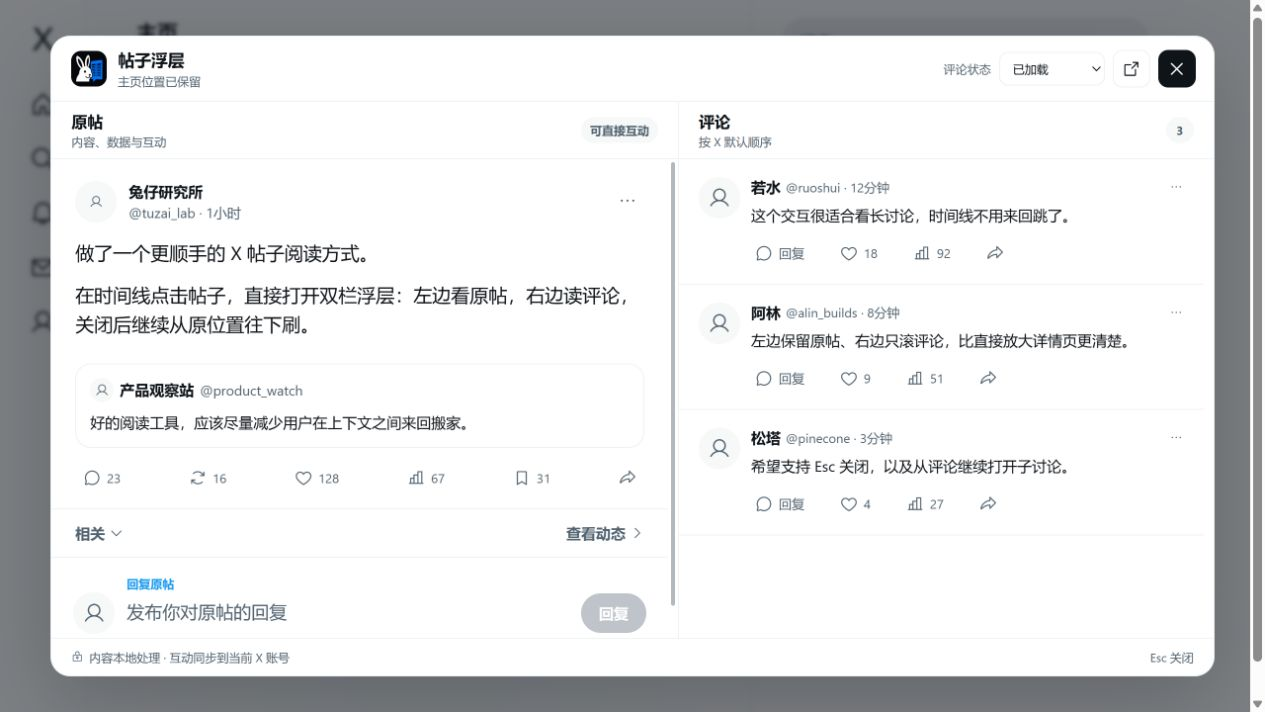
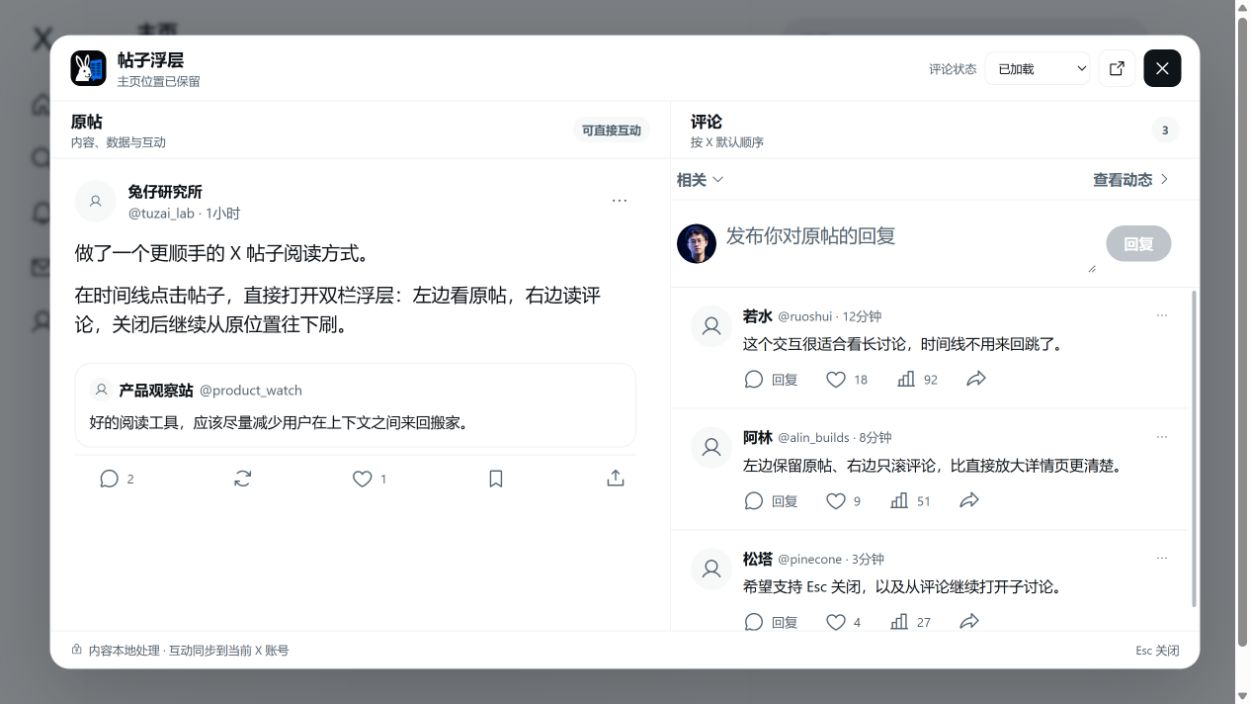
fix: match X action bar and right-side reply tools

diff --git a/src/App.jsx b/src/App.jsx
@@ -66,12 +66,11 @@ function MockPost({ metrics, onAction }) {
         <p>好的阅读工具，应该尽量减少用户在上下文之间来回搬家。</p>
       </div>
       <div className="demo-metrics">
-        <Action icon="ph-chat-circle" label="回复" onClick={() => onAction("reply")}>23</Action>
-        <Action icon="ph-arrows-clockwise" label="转发" active={metrics.reposted} onClick={() => onAction("retweet")}>{16 + Number(metrics.reposted)}</Action>
-        <Action icon="ph-heart" label="喜欢" active={metrics.liked} onClick={() => onAction("like")}>{128 + Number(metrics.liked)}</Action>
-        <Action icon="ph-chart-bar" label="查看帖子分析" onClick={() => onAction("analytics")}>67</Action>
-        <Action icon="ph-bookmark-simple" label="加入书签" active={metrics.bookmarked} onClick={() => onAction("bookmark")}>{31 + Number(metrics.bookmarked)}</Action>
-        <Action icon="ph-share-fat" label="分享帖子" onClick={() => onAction("share")} />
+        <Action icon="ph-chat-circle" label="回复" onClick={() => onAction("reply")}>2</Action>
+        <Action icon="ph-arrows-clockwise" label="转发" active={metrics.reposted} onClick={() => onAction("retweet")}>{metrics.reposted ? 1 : null}</Action>
+        <Action icon="ph-heart" label="喜欢" active={metrics.liked} onClick={() => onAction("like")}>{1 + Number(metrics.liked)}</Action>
+        <Action icon="ph-bookmark-simple" label="加入书签" active={metrics.bookmarked} onClick={() => onAction("bookmark")} />
+        <Action icon="ph-upload-simple" label="分享帖子" onClick={() => onAction("share")} />
       </div>
     </article>
   );
@@ -225,16 +224,18 @@ export function App() {
                 <header className="tuzai-pane-header"><div><strong>原帖</strong><span>内容、数据与互动</span></div><span className="tuzai-interactive-pill">可直接互动</span></header>
                 <div className="tuzai-scroll-area tuzai-post-body">
                   <MockPost metrics={metrics} onAction={handlePostAction} />
-                  <div className="tuzai-context-row"><span>相关 <i className="ph ph-caret-down" /></span><a href="https://x.com/tuzai_lab/status/2087155564904370681/quotes" target="_blank" rel="noreferrer">查看动态 <i className="ph ph-caret-right" /></a></div>
-                  <section className="tuzai-composer" data-target-url="https://x.com/tuzai_lab/status/2087155564904370681">
-                    <Avatar />
-                    <div className="tuzai-composer-body"><span className="tuzai-composer-target">回复{replyTarget}</span><textarea rows="2" maxLength="280" value={replyText} onChange={(event) => setReplyText(event.target.value)} placeholder={`发布你对${replyTarget}的回复`} aria-label="发布你的回复" /></div>
-                    <button type="button" disabled={!replyText.trim()} onClick={publishReply}>回复</button>
-                  </section>
                 </div>
               </section>
               <section className="tuzai-pane tuzai-replies-pane">
                 <header className="tuzai-pane-header"><div><strong>评论</strong><span>{state === 'ready' ? '按 X 默认顺序' : '读取当前会话可见内容'}</span></div><span className="tuzai-reply-count">{state === 'ready' ? replyItems.length : '—'}</span></header>
+                <div className="tuzai-reply-tools">
+                  <div className="tuzai-context-row"><span>相关 <i className="ph ph-caret-down" /></span><a href="https://x.com/tuzai_lab/status/2087155564904370681/quotes" target="_blank" rel="noreferrer">查看动态 <i className="ph ph-caret-right" /></a></div>
+                  <section className="tuzai-composer" data-target-url="https://x.com/tuzai_lab/status/2087155564904370681">
+                    <img className="tuzai-composer-avatar" src="/assets/tino-avatar.png" alt="" />
+                    <div className="tuzai-composer-body"><span className="tuzai-composer-target">回复{replyTarget}</span><textarea rows="2" maxLength="280" value={replyText} onChange={(event) => setReplyText(event.target.value)} placeholder={`发布你对${replyTarget}的回复`} aria-label="发布你的回复" /></div>
+                    <button type="button" disabled={!replyText.trim()} onClick={publishReply}>回复</button>
+                  </section>
+                </div>
                 <div className="tuzai-scroll-area tuzai-reply-list">
                   {state === "ready" && replyItems.map((reply) => <Reply reply={reply} onAction={handleReplyAction} key={`${reply.handle}-${reply.time}`} />)}
                   {state === "loading" && <div className="tuzai-state"><span className="tuzai-spinner" /><strong>正在读取评论</strong><p>原帖已经可以阅读，评论加载完成后会自动出现。</p></div>}

diff --git a/extension/content.css b/extension/content.css
@@ -37,6 +37,7 @@
 .tuzai-reader-grid { min-height: 0; display: grid; grid-template-columns: minmax(0, 1.08fr) minmax(390px, .92fr); }
 .tuzai-pane { min-width: 0; min-height: 0; display: grid; grid-template-rows: 58px minmax(0, 1fr); }
 .tuzai-post-pane { border-right: 1px solid var(--tuzai-border); }
+.tuzai-replies-pane { grid-template-rows: 58px auto minmax(0, 1fr); }
 .tuzai-pane-header { display: flex; align-items: center; justify-content: space-between; gap: 12px; padding: 0 20px; border-bottom: 1px solid var(--tuzai-border); background: color-mix(in srgb, var(--tuzai-bg) 95%, var(--tuzai-soft)); }
 .tuzai-pane-header > div { display: grid; gap: 2px; }
 .tuzai-pane-header strong { font-size: 16px; }
@@ -50,17 +51,19 @@
 .tuzai-cloned-article button[data-tuzai-action] { cursor: pointer !important; }
 .tuzai-cloned-article button[data-tuzai-action][aria-busy="true"] { opacity: .46; pointer-events: none; }
 .tuzai-reply-list > .tuzai-cloned-article { width: 100%; border-bottom: 1px solid var(--tuzai-border) !important; }
-.tuzai-context-row { display: flex; align-items: center; justify-content: space-between; min-height: 50px; padding: 0 24px; border-top: 1px solid var(--tuzai-border); border-bottom: 1px solid var(--tuzai-border); color: var(--tuzai-muted); font-weight: 650; }
+.tuzai-context-row { display: flex; align-items: center; justify-content: space-between; min-height: 42px; padding: 0 28px 0 6px; border-top: 1px solid var(--tuzai-border); border-bottom: 1px solid var(--tuzai-border); color: var(--tuzai-muted); font-weight: 650; }
 .tuzai-context-row > span, .tuzai-context-row > a { display: inline-flex; align-items: center; gap: 4px; color: inherit; text-decoration: none; }
 .tuzai-context-row > a:hover { text-decoration: underline; }
-.tuzai-composer { display: grid; grid-template-columns: auto minmax(0, 1fr) auto; align-items: center; gap: 12px; padding: 18px 22px; border-bottom: 1px solid var(--tuzai-border); background: var(--tuzai-bg); }
-.tuzai-composer-avatar { width: 42px; height: 42px; display: grid; place-items: center; border-radius: 50%; object-fit: cover; background: var(--tuzai-soft); color: var(--tuzai-muted); font-size: 22px; }
-.tuzai-composer-body { min-width: 0; display: grid; gap: 5px; }
-.tuzai-composer-target { color: var(--tuzai-accent); font-size: 12px; font-weight: 650; }
-.tuzai-composer textarea { width: 100%; min-height: 48px; max-height: 124px; resize: vertical; border: 0; outline: 0; padding: 2px 0; background: transparent; color: var(--tuzai-fg); font: inherit; font-size: 18px; line-height: 1.4; }
+.tuzai-composer { display: grid; grid-template-columns: auto minmax(0, 1fr) auto; align-items: center; gap: 10px; padding: 14px 28px 14px 6px; border-bottom: 1px solid var(--tuzai-border); background: var(--tuzai-bg); }
+.tuzai-composer-avatar { width: 40px; height: 40px; display: grid; place-items: center; border-radius: 50%; object-fit: cover; background: var(--tuzai-soft); color: var(--tuzai-muted); font-size: 21px; }
+.tuzai-composer-body { min-width: 0; display: grid; }
+.tuzai-composer-target { position: absolute; width: 1px; height: 1px; overflow: hidden; clip: rect(0 0 0 0); white-space: nowrap; }
+.tuzai-composer textarea { width: 100%; min-height: 44px; max-height: 112px; resize: vertical; border: 0; outline: 0; padding: 8px 0 0; background: transparent; color: var(--tuzai-fg); font: inherit; font-size: 19px; line-height: 1.35; }
 .tuzai-composer textarea::placeholder { color: var(--tuzai-muted); }
-.tuzai-composer > button { border: 0; border-radius: 999px; padding: 10px 18px; background: var(--tuzai-accent); color: #fff; font-weight: 750; cursor: pointer; }
+.tuzai-composer > button { border: 0; border-radius: 999px; padding: 8px 18px; background: var(--tuzai-accent); color: #fff; font-weight: 750; cursor: pointer; }
 .tuzai-composer > button:disabled { background: color-mix(in srgb, var(--tuzai-muted) 38%, var(--tuzai-bg)); cursor: default; }
+.tuzai-reply-tools { min-width: 0; background: var(--tuzai-bg); }
+.tuzai-reply-tools .tuzai-context-row { border-top: 0; }
 .tuzai-action-menu { position: fixed; z-index: 2147483647; width: 204px; overflow: hidden; border: 1px solid var(--tuzai-border); border-radius: 14px; background: var(--tuzai-bg); box-shadow: 0 12px 36px rgba(15,20,25,.22); }
 .tuzai-action-menu button { width: 100%; display: flex; align-items: center; gap: 10px; border: 0; padding: 12px 14px; background: transparent; color: var(--tuzai-fg); text-align: left; font-weight: 650; cursor: pointer; }
 .tuzai-action-menu button:hover { background: var(--tuzai-soft); }

diff --git a/src/styles.css b/src/styles.css
@@ -52,9 +52,9 @@ button { color: inherit; }
 .demo-quote-title { display: flex; gap: 6px; align-items: center; }
 .demo-quote-title .demo-avatar { width: 24px; height: 24px; font-size: 14px; }
 .demo-quote-card p { margin: 10px 0 0; line-height: 1.45; }
-.demo-metrics { display: flex; justify-content: space-between; padding: 17px 4px 0; color: var(--tuzai-muted); }
-.demo-action { display: inline-flex; gap: 6px; align-items: center; border: 0; padding: 4px; background: transparent; color: inherit; font-size: 13px; cursor: pointer; }
-.demo-action i { font-size: 18px; }
+.demo-metrics { min-height: 48px; display: flex; align-items: center; justify-content: space-between; margin-top: 7px; padding: 0 10px 0 24px; border-top: 1px solid var(--tuzai-border); color: var(--tuzai-muted); }
+.demo-action { display: inline-flex; gap: 7px; align-items: center; border: 0; padding: 0; background: transparent; color: inherit; font-size: 13px; line-height: 1; cursor: pointer; }
+.demo-action i { font-size: 22px; }
 .demo-action:hover { color: var(--tuzai-accent); }
 .demo-action[data-active="true"] { color: var(--tuzai-accent); }
 .demo-reply-card { display: flex; gap: 11px; padding: 18px 20px; border-bottom: 1px solid var(--tuzai-border); }

diff --git a/extension/content.js b/extension/content.js
@@ -410,6 +410,7 @@
         </section>
         <section class="tuzai-pane tuzai-replies-pane">
           <header class="tuzai-pane-header"><div><strong>评论</strong><span>按 X 当前默认顺序</span></div><span class="tuzai-reply-count">—</span></header>
+          <div class="tuzai-reply-tools"></div>
           <div class="tuzai-scroll-area tuzai-reply-list"></div>
         </section>
       </div>
@@ -434,7 +435,8 @@
     activity.rel = "noopener";
     activity.append(document.createTextNode("查看动态"), icon("ph-caret-right"));
     contextRow.append(related, activity);
-    postBody.append(clone, contextRow, createReplyComposer());
+    postBody.append(clone);
+    dialog.querySelector(".tuzai-reply-tools").append(contextRow, createReplyComposer());
     postBody.addEventListener("click", handleClonedContentClick, true);
     dialog.querySelector(".tuzai-reply-list").addEventListener("click", handleClonedContentClick, true);
 

diff --git a/design-qa.md b/design-qa.md
@@ -1,56 +1,50 @@
 # Design QA
 
-- Source visual truth: `C:/Users/yi/AppData/Local/Temp/codex-clipboard-b7a3db9e-6771-4ec8-b378-1968a2eb9e23.png`
-- Implementation screenshot: `D:/GitHub/tuzai-x-popover/docs/preview.png`
-- State: light theme, popover open, replies loaded, native-equivalent action row and reply composer visible
-- Source pixels: 1256 × 842 at unknown CSS density
-- Implementation pixels / observed CSS viewport: 1265 × 712 at the in-app browser's default desktop density
-- Density normalization: both captures were inspected together at their native near-equal widths. The supplied source is already a focused crop of the X action/composer area, so an additional crop was not needed.
+- Source visual truth 1: `C:/Users/yi/AppData/Local/Temp/codex-clipboard-e9d5980e-e913-4636-a2c6-bbf40760d530.png`
+- Source visual truth 2: `C:/Users/yi/AppData/Local/Temp/codex-clipboard-7d869374-3ae4-4c08-bbe7-ebef608974b8.png`
+- Full implementation screenshot: `D:/GitHub/tuzai-x-popover/docs/preview.png`
+- Focused action comparison: `D:/GitHub/tuzai-x-popover/docs/qa-action-bar-normalized-verified.png`
+- Focused right-tools comparison: `D:/GitHub/tuzai-x-popover/docs/qa-right-reply-tools-normalized-verified.png`
+- State: light theme, desktop two-column popover open, replies loaded
+- Source pixels: 1182 × 94 and 1196 × 266
+- Implementation viewport: 1265 × 712
 
 ## Findings
 
-No actionable P0/P1/P2 visual or interaction mismatch remains for the requested feature set.
+No actionable P0/P1/P2 mismatch remains for the two requested regions.
 
-The source establishes the required interaction anatomy: reply, repost, like, view/analytics, bookmark, share, related ordering, quote activity, reply composer, and per-reply action rows. The implementation visibly preserves those surfaces while adapting them to the intentional two-column reader.
+The original-post action bar now has exactly five controls in the source order: reply, repost, like, bookmark, share. The proportional icon positions match the reference, only reply and like show their initial counts, and the share control uses the same upward-arrow anatomy.
 
-## Full-view comparison evidence
-
-- The left pane keeps the original post and X-like action hierarchy, then shows `相关`, `查看动态`, and the reply composer in the same order as the source.
-- The right pane keeps per-reply reply, like, view/analytics, and share controls instead of reducing replies to plain text.
-- The two-column split is an intentional product change required by the original brief, not a fidelity regression. Independent scrolling preserves the source's dense conversation-reading behavior.
+`相关`, `查看动态`, and the reply composer now live at the top of the right comment pane. The source avatar crop is used, the helper target label is visually hidden, and the disabled reply button, left/right insets, row heights, separators, and muted colors follow the supplied crop.
 
 ## Focused comparison evidence
 
-The source image itself is a focused 1256 px-wide crop of the interaction region. At the implementation's comparable 1265 px width, all corresponding controls and labels remain legible. The action row, `相关` / `查看动态` row, disabled-empty reply button, and reply cards were directly readable in the combined image inspection, so no additional crop was necessary.
-
-## Required fidelity surfaces
-
-- Fonts and typography: system UI fonts, X-like muted metadata, strong author names, and compact action counts preserve the source hierarchy. No wrapping or truncation failure was observed.
-- Spacing and layout rhythm: the action row, context row, composer, and comment separators align consistently. The left pane uses slightly denser spacing than the source so the controls fit beside the comment pane; this is acceptable for the split-reader layout.
-- Colors and visual tokens: white surface, near-black copy, muted gray metadata, neutral borders, and blue interactive state remain consistent with X light mode.
-- Image quality and assets: the extension keeps real X avatars/media in live cloned articles and uses the generated rabbit icon only for plugin branding. Standard controls use the bundled Phosphor icon library.
-- Copy and content: `可直接互动` replaces the misleading former `只读预览`; the footer now states that content is processed locally while interactions sync to the current X account.
+- Both source crops and both implementation crops were inspected together in the same comparison input.
+- The action bar preserves the five-item spacing ratios across a responsive pane rather than inserting an analytics control.
+- The right-tools block preserves the source hierarchy: context row, divider, avatar/placeholder/button composer, divider.
+- DOM placement audit: left context/composer count `0`; right context/composer count `1` each.
 
 ## Interaction and browser checks
 
-- Original-post like, repost, and bookmark controls toggled counts from `128/16/31` to `129/17/32` in the demo.
-- Clicking a reply's reply button changed the composer target to `回复若水`.
-- Publishing a reply increased the visible reply count from 3 to 4 and inserted the new reply at the top.
-- Reply likes, share feedback, the more-actions feedback, and analytics feedback were verified.
-- `Escape` changed the dialog count from 1 to 0; reopening changed it back to 1.
-- Loading, empty, error, and ready states remain available through the demo state selector.
+- Original action count text changed from `2 / 1` to `2 / 1 / 2` after activating repost and like; repost, like, and bookmark active states all became true.
+- Clicking the original reply action focused the composer in the right pane.
+- Clicking `回复 若水` changed the placeholder to `发布你对若水的回复`.
+- Publishing a reply increased the visible reply count from `3` to `4` and inserted the new reply at the top.
+- Share produced `帖子链接已复制`.
+- `Escape` reduced the dialog count from `1` to `0`; `重新打开浮层` restored it to `1`.
 - Fresh-tab browser console warnings/errors: none.
-- Local preview URL tested: `http://127.0.0.1:55090/`.
+- Local preview tested: `http://127.0.0.1:55090/`.
+- Automated checks: 10/10 tests passed; extension content script syntax check and `git diff --check` passed.
 
 ## Comparison history
 
-1. P1 from the previous version: cloned X controls were disabled and the header explicitly said `只读预览`. Fixed by keeping the inactive X detail tab alive as an interaction proxy, enabling action buttons, adding a real reply composer, and changing the header to `可直接互动`.
-2. P2 in the first interactive demo pass: reply like counts rendered as `NaN`. Fixed by normalizing the optional liked state to a boolean before calculating the count.
-3. P2 in the second pass: overlapping toast timers could clear newer feedback. Fixed by storing and cancelling the previous timer before showing a new toast.
-4. Post-fix evidence: all requested controls are visible, the browser interaction sequence passes, and a fresh-tab console check is clean.
+1. P1: the previous preview placed `相关`, `查看动态`, and the composer under the left original post. Fixed by moving the complete block to `.tuzai-reply-tools` above the right reply list.
+2. P1: the previous original-post bar used the wrong item set and spacing. Fixed with the exact five controls and source-measured proportional insets.
+3. P2: the first focused QA crop used incorrect screenshot coordinates. Fixed by reading the live component bounds and cropping the verified full screenshot.
+4. Post-fix evidence: combined source/implementation comparison passes, all requested interactions pass, and a fresh-tab console check is clean.
 
 ## Residual test gap
 
-The unpacked extension has not been installed into the user's Chrome, so no real X account write was executed during QA. Current X DOM selectors for reply, repost, like, bookmark, share, analytics, quote activity, and the inline reply editor were inspected against the user's signed-in X page, and the proxy code is covered by syntax/build/unit checks. Installing the extension remains a separate confirmation-gated step.
+The unpacked extension has not been installed into the user's Chrome, so no real X account write was executed during QA. Installing the extension remains a separate confirmation-gated step.
 
 final result: passed

diff --git a/AGENTS.md b/AGENTS.md
@@ -12,6 +12,8 @@ Build app UI in `src/`. Keep `.openai/hosting.json`, `worker/index.js`, `scripts
 
 - This repository ships a Manifest V3 Chrome extension for `x.com` and `twitter.com` plus a Vite-based visual demo.
 - The core interaction keeps the X timeline in place and opens a modal reader: original post on the left, replies on the right.
+- The original-post action bar must preserve X's native five-item order and density: reply, repost, like, bookmark, share. Do not insert analytics into that row.
+- The conversation controls shown below an X detail post (`相关`, `查看动态`, and the reply composer) belong at the top of the right replies pane, above the reply list.
 - The extension preserves native post interactions inside the popover. Reply, repost, like, bookmark, share, analytics, and quote-activity entry points must not be reduced to decorative or permanently disabled controls.
 - It uses no third-party backend, requests only `storage`, `tabs`, and X/Twitter host access, and must not request cookie or all-sites access.
 - Reply extraction and account actions use a temporary inactive X tab so the extension can reuse the user's normal signed-in page without depending on private GraphQL operation IDs. Keep that proxy tab only while the popover is open, and close it on cancel/close.

diff --git a/README.md b/README.md
@@ -10,6 +10,7 @@
 - 左侧展示点击的原帖，右侧展示当前账号可见的评论。
 - 浮层内可直接回复、点赞、转发、收藏和分享，操作同步到当前登录的 X 账号。
 - 保留查看量、查看动态和帖子链接等原生入口。
+- 原帖操作栏保持 X 的五项顺序；“相关 / 查看动态 / 回复框”固定在右侧评论区顶部。
 - 支持浅色、暗色和熄灯主题。
 - `Esc`、遮罩或右上角按钮都可以关闭浮层。
 - 插件工具栏里可以随时开启或关闭。
